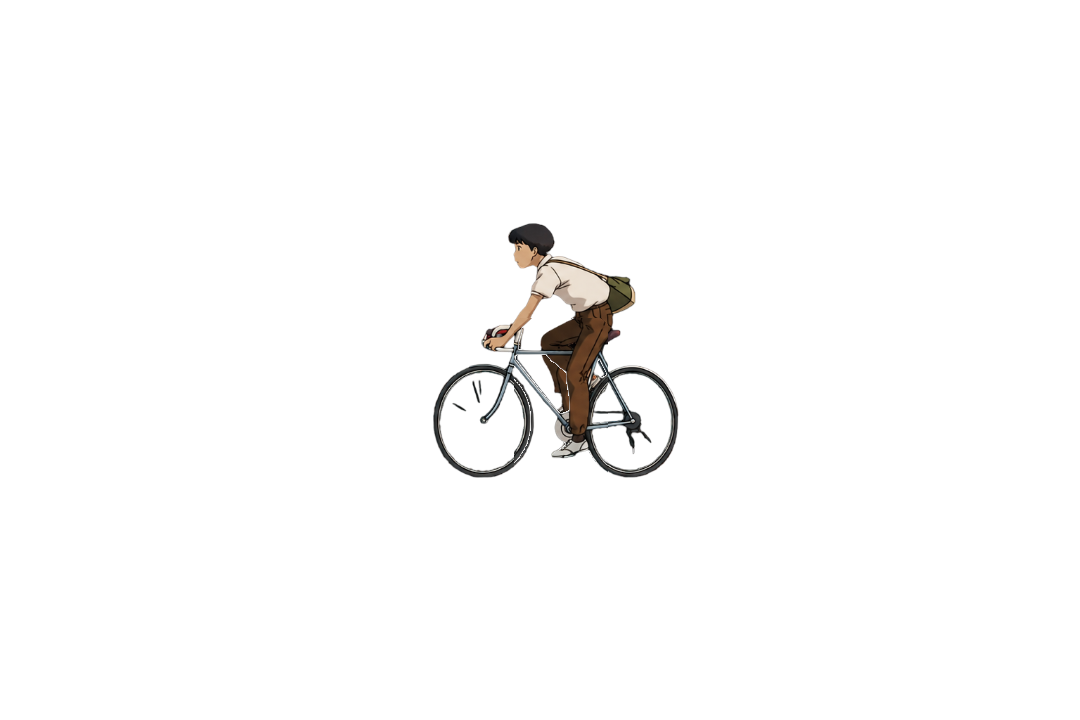
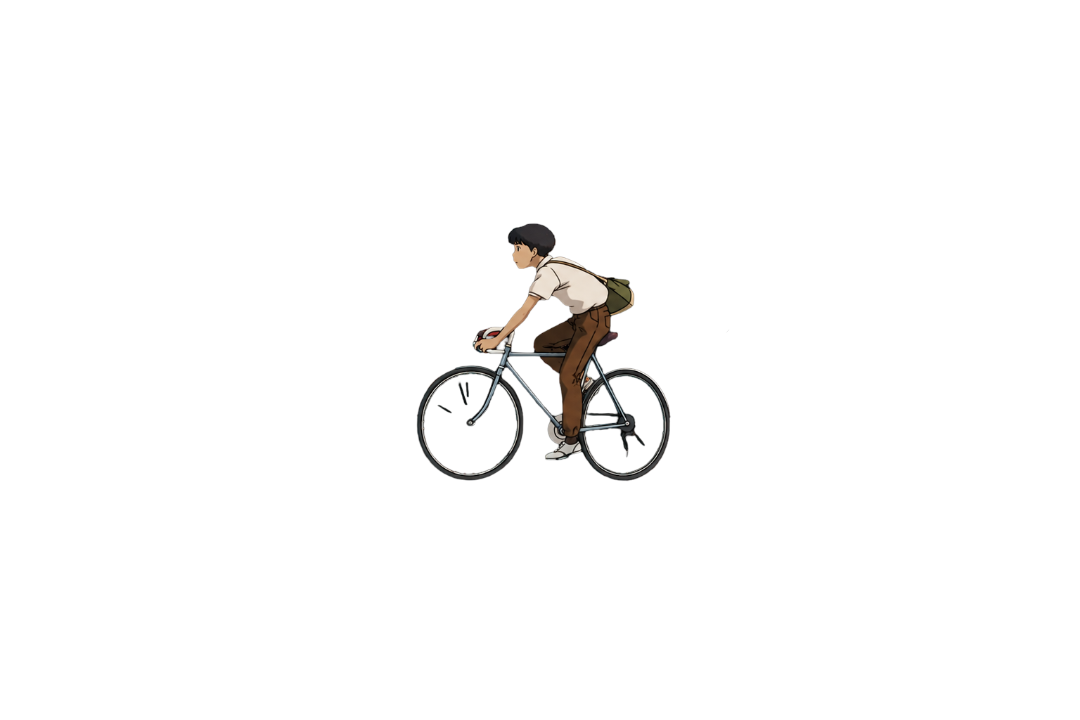
Play the bike as whole stills and skip the bad drawing.
Frame 4 was a different machine and the plate-lock composite was a hack. Restore the original frames and cycle 1–3 then 5–8.

Changed region(s): [[0.3667, 0.3361, 0.6417, 0.6722]]

diff --git a/index.html b/index.html
@@ -12,8 +12,8 @@
         
         <!-- Base interactive images (pointer-events disabled in CSS so they don't block each other) -->
 
-        <!-- Bike Scene Animation Frames -->
-        <div class="bike-scene-item" id="bike-animator" aria-hidden="true"></div>
+        <!-- Bike Scene Animation Frame -->
+        <img class="bike-scene-item" id="bike-animator" src="assets/scene2/frame1.png" alt="Cycling Animation">
         <img class="interactive-item" id="cycle" src="assets/a/cycle_transparent.png" alt="Bicycle">
         <img class="interactive-item" id="boy" src="assets/a/boy_transparent.png" alt="Boy">
         <!-- Moving the bag up slightly -->
@@ -210,29 +210,25 @@
         // ----------------------------------------------------
         // Bike Stop-Motion Animation Logic (Scene 2)
         // ----------------------------------------------------
-        const bikeAnimator = document.getElementById('bike-animator');
-        const totalBikeFrames = 8;
-        const bikeFrameEls = [];
-        for (let i = 1; i <= totalBikeFrames; i++) {
-            const img = document.createElement('img');
-            img.src = `assets/scene2/frame${i}.png?v=plate1`;
-            img.alt = '';
-            if (i === 1) img.classList.add('active');
-            bikeAnimator.appendChild(img);
-            bikeFrameEls.push(img);
-        }
+        const bikeFrameNums = [1, 2, 3, 5, 6, 7, 8];
+        const bikeFrames = bikeFrameNums.map((n) => {
+            const img = new Image();
+            img.src = `assets/scene2/frame${n}.png?v=orig`;
+            return img;
+        });
+        const totalBikeFrames = bikeFrames.length;
 
         let bikeAnimationInterval;
         let currentBikeFrame = 0;
+        const bikeAnimator = document.getElementById('bike-animator');
 
         function startBikeAnimation() {
             clearInterval(bikeAnimationInterval);
             currentBikeFrame = 0;
-            bikeFrameEls.forEach((el, i) => el.classList.toggle('active', i === 0));
+            bikeAnimator.src = bikeFrames[0].src;
             bikeAnimationInterval = setInterval(() => {
-                bikeFrameEls[currentBikeFrame].classList.remove('active');
                 currentBikeFrame = (currentBikeFrame + 1) % totalBikeFrames;
-                bikeFrameEls[currentBikeFrame].classList.add('active');
+                bikeAnimator.src = bikeFrames[currentBikeFrame].src;
             }, 420);
         }
 

diff --git a/style.css b/style.css
@@ -125,23 +125,9 @@ body {
     left: 100%;
     width: 100%;
     height: 100%;
+    object-fit: contain;
     transform: scale(1.1);
     pointer-events: none;
-}
-
-#bike-animator img {
-    position: absolute;
-    top: 0;
-    left: 0;
-    width: 100%;
-    height: 100%;
-    object-fit: contain;
-    opacity: 0;
-    pointer-events: none;
-}
-
-#bike-animator img.active {
-    opacity: 1;
 }
 
 @keyframes cycleAcross {

diff --git a/studio/stabilize.py b/studio/stabilize.py
@@ -1,4 +1,4 @@
-"""Locked-camera plate: one bike, only the pedals change.
+"""Translate-only lock so a PNG cycle sits on one camera.
 
     python3 studio/stabilize.py --in assets/scene2 --pattern 'frame*.png'
 """
@@ -126,6 +126,7 @@ def repeating_core(occupancy, n_frames):
 
 
 def pin_to_core(frames, core, reference, freeze_reference, max_shift):
+    """Slide each whole still so it overlaps the repeating object, same ground."""
     ref_shell = content_mask(frames[reference]) & core
     if ref_shell.sum() < 50:
         ref_shell = content_mask(frames[reference])
@@ -146,47 +147,7 @@ def pin_to_core(frames, core, reference, freeze_reference, max_shift):
     return out
 
 
-def dilate(mask, radius):
-    m = np.asarray(mask, dtype=bool)
-    for _ in range(max(0, int(radius))):
-        p = np.pad(m, 1, constant_values=False)
-        m = p[1:-1, 1:-1] | p[:-2, 1:-1] | p[2:, 1:-1] | p[1:-1, :-2] | p[1:-1, 2:]
-    return m
-
-
-def lock_to_plate(frames, core, occupancy, reference=0):
-    """Freeze frame 1's bike; only the pedal/leg band may swap."""
-    del occupancy
-    plate = frames[reference].copy()
-    pose = np.zeros(core.shape, dtype=bool)
-    ys, xs = np.where(core)
-    if xs.size:
-        x0, x1 = int(xs.min()), int(xs.max())
-        y0, y1 = int(ys.min()), int(ys.max())
-        crank = np.zeros_like(core, dtype=bool)
-        crank[
-            y0 + int(0.40 * (y1 - y0)) : y1 + 8,
-            x0 + int(0.36 * (x1 - x0)) : x0 + int(0.70 * (x1 - x0)),
-        ] = True
-        pose = dilate(crank, 6) & dilate(core, 8)
-        pose[:, : int(xs.min()) + 12] = False
-    out = []
-    for i, frame in enumerate(frames):
-        if i == reference:
-            out.append(plate)
-            continue
-        paint = content_mask(frame) & pose
-        composed = plate.copy()
-        composed[pose] = 0
-        composed[paint] = frame[paint]
-        holes = pose & (composed[:, :, 3] < 10)
-        composed[holes] = plate[holes]
-        print(f"  frame {i}: plate + {int(paint.sum())} pose pixels")
-        out.append(composed)
-    return out
-
-
-def stabilize_frames(frames, reference=0, max_shift=24, freeze_reference=True, slack=2, lock_plate=False):
+def stabilize_frames(frames, reference=0, max_shift=24, freeze_reference=True, slack=2):
     del slack
     cleaned = [clean_speckles(a) for a in fit_canvas(frames)]
     ref0 = content_mask(cleaned[reference])
@@ -203,13 +164,7 @@ def stabilize_frames(frames, reference=0, max_shift=24, freeze_reference=True, s
     occupancy = occupancy_map(seated)
     core, mode, thresh = repeating_core(occupancy, len(seated))
     print(f"stabilize: {mode}, {int(core.sum())} anchor pixels, thresh={thresh}/{len(seated)}")
-    seated = pin_to_core(seated, core, reference, freeze_reference, max_shift)
-    occupancy = occupancy_map(seated)
-    core, _, _ = repeating_core(occupancy, len(seated))
-    if lock_plate:
-        print("stabilize: locked-camera plate (bike/body frozen, only pedals swap)")
-        seated = lock_to_plate(seated, core, occupancy, reference)
-    return seated
+    return pin_to_core(seated, core, reference, freeze_reference, max_shift)
 
 
 def stabilize_folder(input_dir, output_dir=None, pattern="frame*.png"):
@@ -219,7 +174,7 @@ def stabilize_folder(input_dir, output_dir=None, pattern="frame*.png"):
     if len(paths) < 2:
         raise SystemExit(f"Need at least 2 frames in {input_dir}/{pattern}")
     frames = [np.array(Image.open(p).convert("RGBA")) for p in paths]
-    locked = stabilize_frames(frames, lock_plate=True)
+    locked = stabilize_frames(frames)
     dest = None
     for path, arr in zip(paths, locked):
         dest = os.path.join(output_dir, os.path.basename(path))
